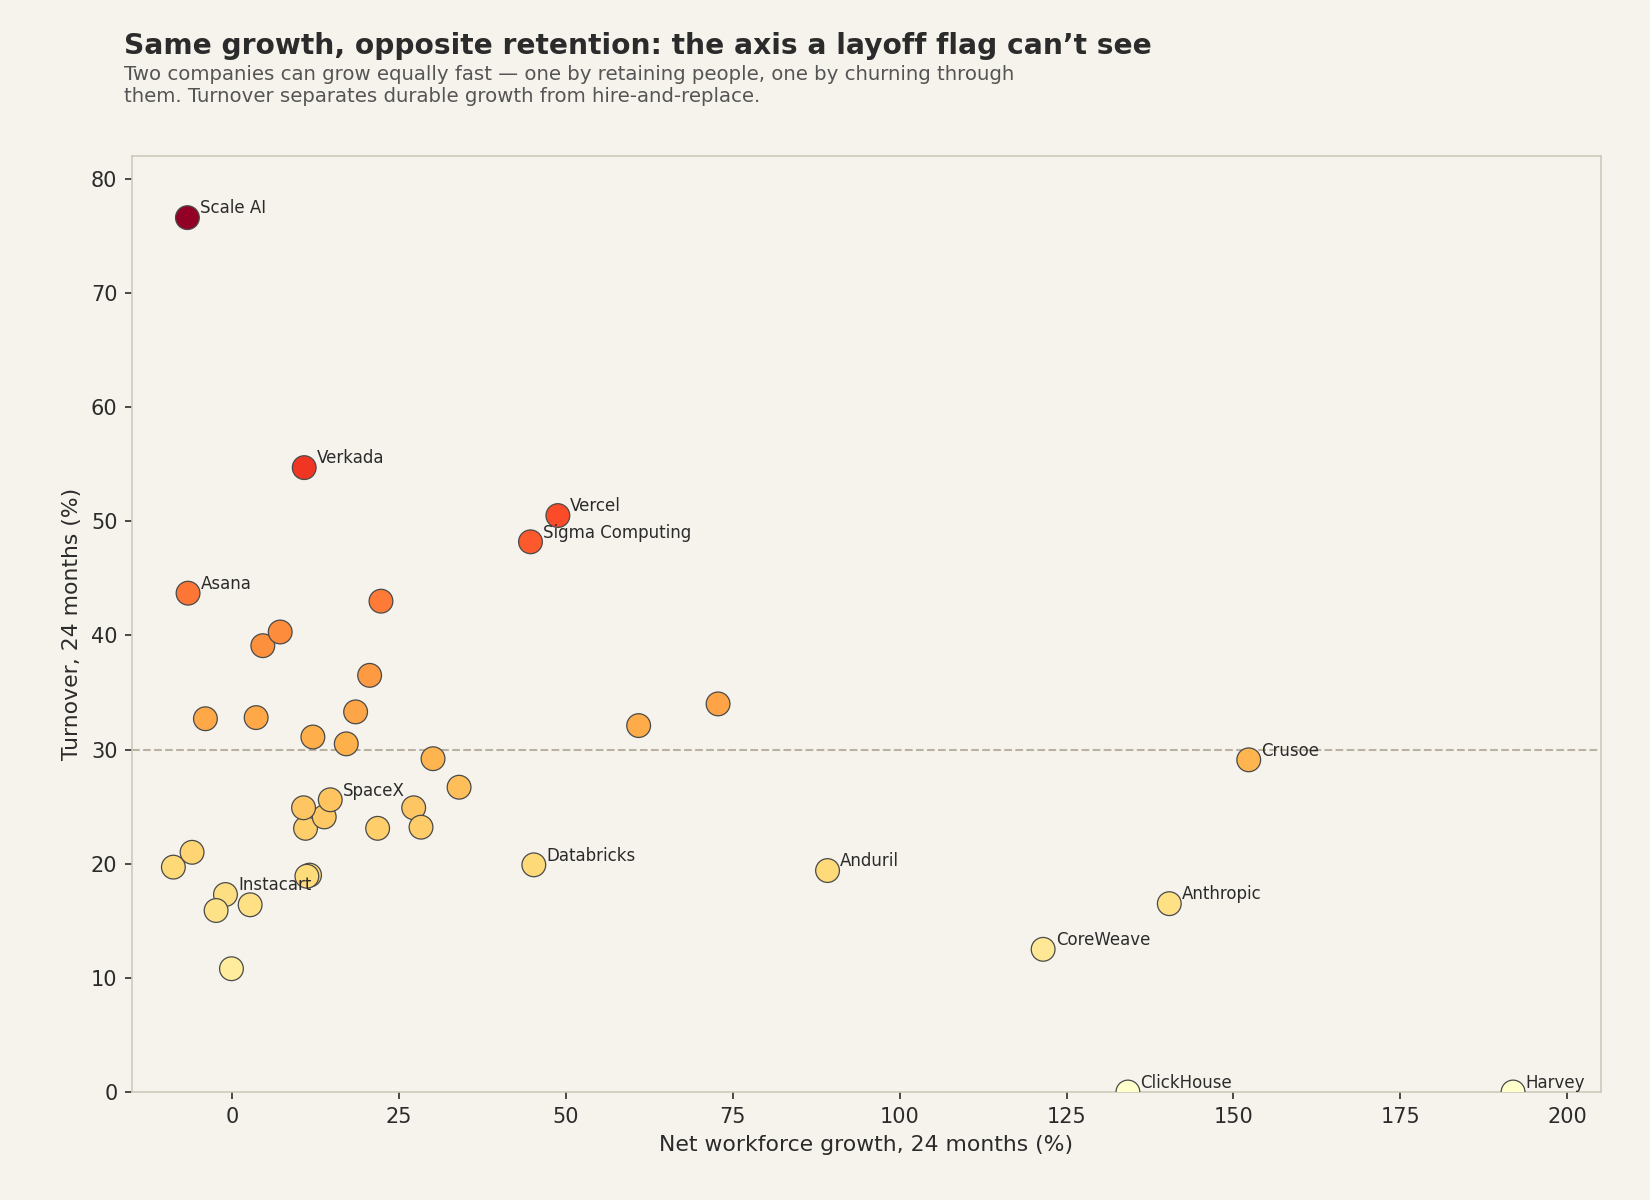
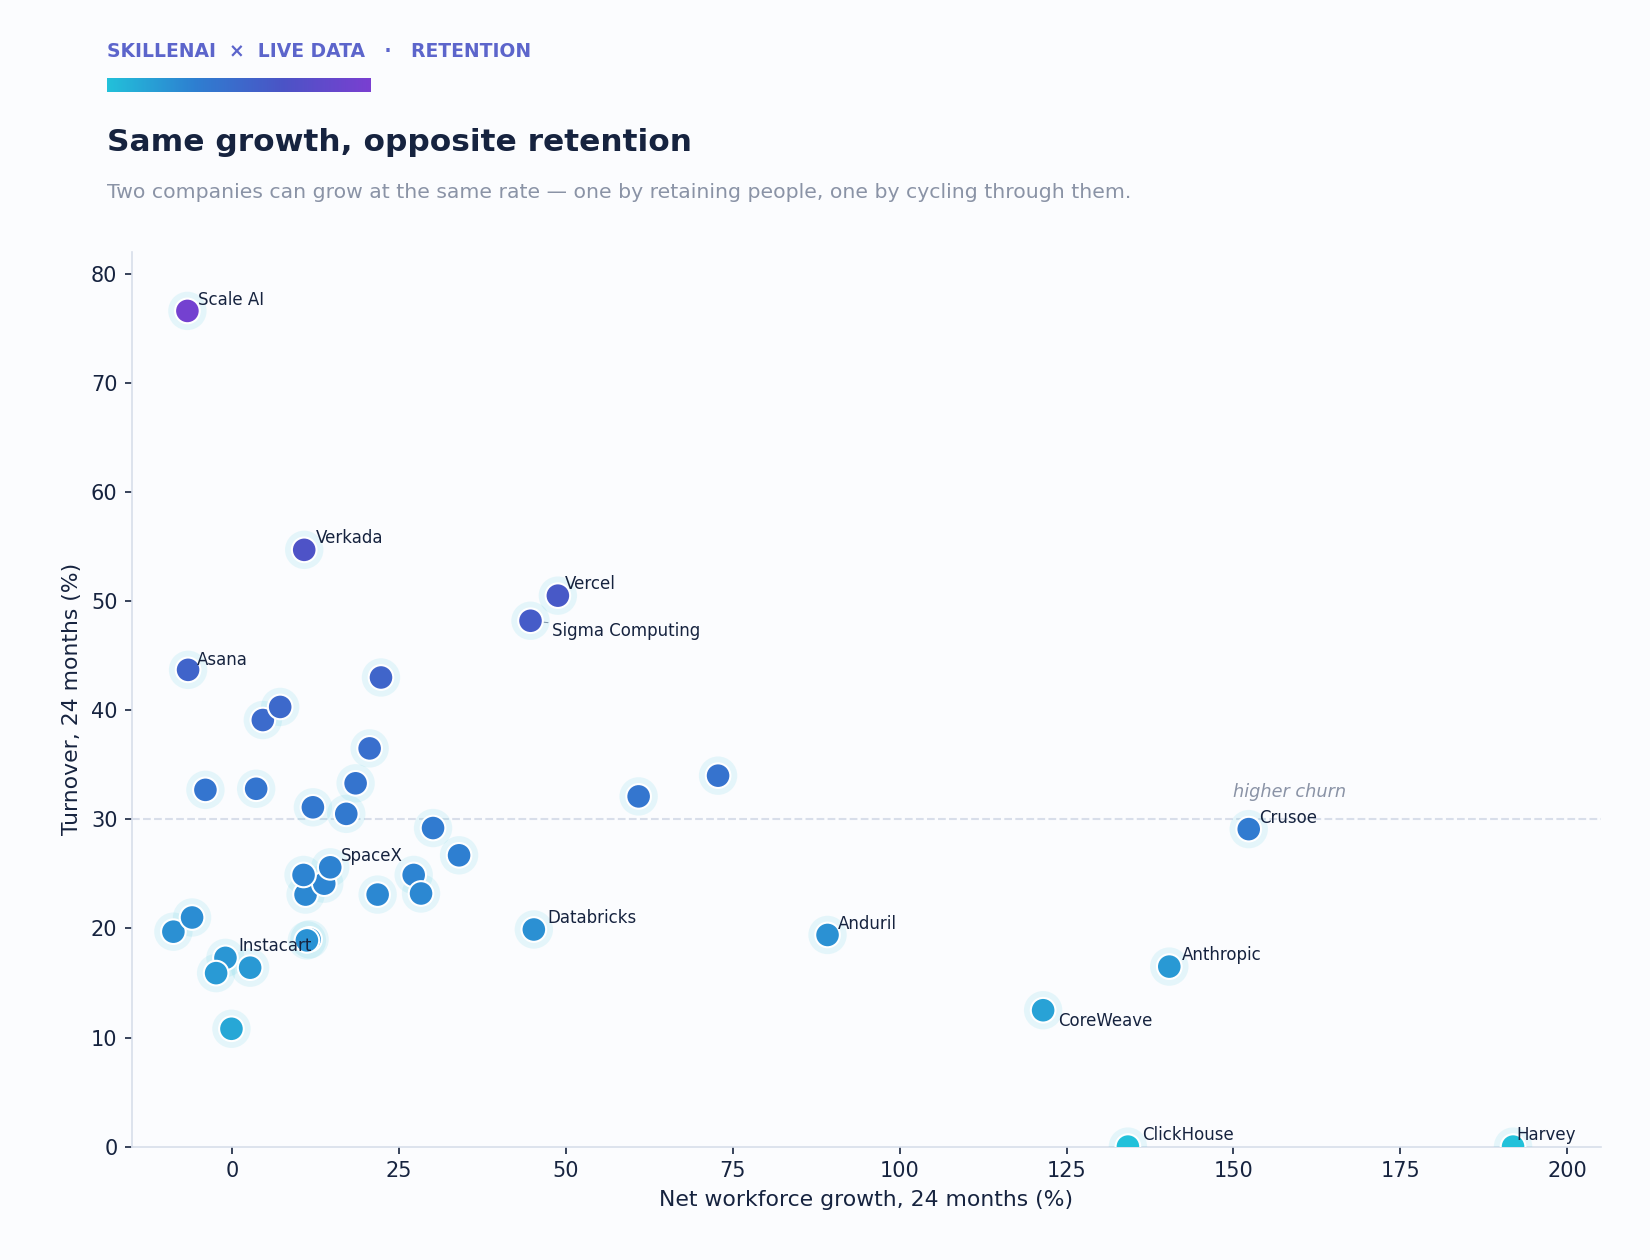
Rebrand charts (Skillenai aesthetic), drop Levels coined phrases, add Scale AI dispersal check
- Original Skillenai-branded chart aesthetic (brand gradient, own quadrant labels); no Levels styling/phrasing
- Replace coined quadrant names with plain labels (high/lower pay x hiring/cutting)
- Scale AI: verified 77% churn is real dispersal (Meta only ~9% of leavers), not a Meta-relabel artifact
- De-echo titles from the Levels chart title

diff --git a/swe-pay-vs-stability/README.md b/swe-pay-vs-stability/README.md
@@ -1,4 +1,4 @@
-# Where should a SWE work in 2026? An independent read on the Levels.fyi question
+# Software engineer pay vs. company trajectory: an independent map of 40 employers (2026)
 
 **Skillenai × Live Data · advertised software-engineer pay vs. company workforce trajectory · analysis date 2026-07-06**
 
@@ -16,7 +16,7 @@ This is **not** a reproduction of Levels' numbers, and it shouldn't be read as o
 
 - **Pay = advertised, not total comp.** Our x-axis is the **median midpoint of advertised US "Software Engineer" salary bands** from job postings (base salary bands; **excludes equity, bonus, and self-reported figures**). Levels measures self-reported *total* compensation including equity. So our Anthropic (~$402K) and Levels' Anthropic (~$800K TC) are measuring different things. What's striking is that the **rank order is preserved** — Anthropic tops both charts — which is a nice cross-validation of two very different collection methods. But do not compare the dollar *levels* between the charts; compare the *positions*.
 - **Trajectory = continuous net flow, not a layoff flag.** Our y-axis is **net workforce flow (arrivals − departures) over 24 months, as a share of average headcount**, from Live Data's supply-side panel of professional profiles — measured on a **corporate-family basis** (e.g. Cruise counts within GM, Meraki within Cisco). Levels used a binary "did they run a layoff at all" rule.
-- **Different company set.** Big Tech — Google, Meta, Amazon, Microsoft, Nvidia, Netflix, Intel, Oracle, IBM — is **absent from our pay axis** because those firms hire through proprietary applicant systems we don't index (fewer than 15 salaried US SWE postings each). So we cannot reproduce Levels' newsworthy Intel/Oracle/IBM "Under Pressure" corner. Our set skews toward **scale-ups and defense-tech** — the companies whose postings we see cleanly.
+- **Different company set.** Big Tech — Google, Meta, Amazon, Microsoft, Nvidia, Netflix, Intel, Oracle, IBM — is **absent from our pay axis** because those firms hire through proprietary applicant systems we don't index (fewer than 15 salaried US SWE postings each). So we cannot reproduce the newsworthy Intel/Oracle/IBM bottom-left corner (established names taking deep cuts). Our set skews toward **scale-ups and defense-tech** — the companies whose postings we see cleanly.
 
 Everything below should be read as *directional positioning*, not precise pay estimation. Per-company posting counts range from 15 to ~500.
 
@@ -26,7 +26,7 @@ Everything below should be read as *directional positioning*, not precise pay es
 
 ![Advertised SWE pay vs. 24-month workforce trajectory, 40 companies, coloured by turnover](01_comp_vs_flow_hero.png)
 
-We keep Levels' four-quadrant framing as an homage (their names, our data): **Money & Momentum** (pays well, growing), **Steady / Momentum** (pays nearer the median, growing), **Big Checks, Big Cuts** (pays well, shrinking), **Under Pressure** (pays nearer the median, shrinking). The vertical line is the median advertised SWE pay across the set (~$205K); the horizontal line is zero net change.
+We split the map into four quadrants with plain labels: **high pay · hiring** (top-right), **lower pay · hiring** (top-left), **high pay · cutting** (bottom-right), **lower pay · cutting** (bottom-left). The vertical line is the median advertised SWE pay across the set (~$205K); the horizontal line is zero net change.
 
 ### Finding 1 — Pay barely predicts trajectory
 
@@ -36,9 +36,11 @@ Across 40 companies, the correlation between advertised SWE pay and 24-month wor
 
 **Anthropic sits alone in the top-right corner:** the highest advertised SWE pay in the set (~$402K midpoint, versus ~$301K for the next company) *and* +140% headcount growth over 24 months, at a low 16% turnover. The richest offer in our data is also attached to the fastest-growing, best-retaining company. Whatever the pay-vs-stability tension is, it does not bind at the very top right now — the AI leaders are paying the most and hiring the hardest at the same time.
 
-### Finding 3 — "Big Checks, Big Cuts" is real, and Scale AI is the clearest case
+### Finding 3 — High pay, shrinking headcount: the Scale AI case
 
-The quadrant Levels flagged — high pay, negative trajectory — is where a job-seeker most needs the second number. In our data the standout is **Scale AI**: top-three advertised pay (~$243K) but **net −7% headcount** and the **highest turnover in the entire set (77%)**, consistent with the well-reported talent movement following its 2025 partnership with Meta. On pay alone Scale AI looks like a top destination; on trajectory-and-churn it looks like the opposite. This single company is the strongest illustration of Levels' thesis in our data.
+The high-pay / shrinking corner is where a job-seeker most needs the second number. In our data the standout is **Scale AI**: top-three advertised pay (~$243K) but **net −7% headcount** and the **highest turnover in the entire set (77%)**.
+
+We checked whether that churn was just a labeling artifact of the mid-2025 Meta stake — i.e. staff flipping their profile from Scale AI to Meta — and it isn't. Tracing where Scale AI's leavers actually went (447 with a recorded next employer), **Meta is only the single largest destination at ~9%**; the other ~91% scattered across frontier labs that had been Scale's customers (xAI, Anthropic, OpenAI, Google, Amazon) and a swarm of rival data-labeling startups (Mercor, micro1, Snorkel AI, Turing, Appen, Welo). No single destination cracks 10%. So the turnover is a **genuine post-deal unwinding**: the Meta stake spooked Scale's customers, its business contracted, and talent dispersed to the competitors who picked up the displaced work. On pay alone Scale AI looks like a top destination; on trajectory and churn it's the clearest case in the set of an offer number and a company's direction pointing opposite ways.
 
 ### Finding 4 — The turnover axis Levels couldn't see
 
@@ -50,7 +52,7 @@ Growth and turnover are essentially uncorrelated (ρ = −0.13), which means **c
 
 ### Finding 5 — Legacy names drift down, new defense-tech climbs
 
-Our "Under Pressure" corner echoes Levels' old-guard corner with the companies we *can* see: **General Motors (−9%), Cisco (−6%), Rivian (−4%), Lyft (−2%), Lockheed Martin (~0%)** — established firms at flat-to-shrinking trajectories (though these are shallow drifts, not the deep cuts Levels showed for Intel/Oracle). Meanwhile a **new-defense / hard-tech cluster hires hard at mid-market pay**: **Anduril (+89%, $213K), Applied Intuition (+73%, $183K), Axon (+28%), Skydio (+21%), SpaceX (+15%, $150K)**. The contrast between old defense (Lockheed, flat) and new defense (Anduril, +89%) is one of the sharper stories on the map.
+Our lower-pay / shrinking corner holds the established names we *can* see: **General Motors (−9%), Cisco (−6%), Rivian (−4%), Lyft (−2%), Lockheed Martin (~0%)** — flat-to-shrinking trajectories (though these are shallow drifts, not the deep cuts the original chart showed for Intel/Oracle). Meanwhile a **new-defense / hard-tech cluster hires hard at mid-market pay**: **Anduril (+89%, $213K), Applied Intuition (+73%, $183K), Axon (+28%), Skydio (+21%), SpaceX (+15%, $150K)**. The contrast between old defense (Lockheed, flat) and new defense (Anduril, +89%) is one of the sharper stories on the map.
 
 ---
 
@@ -60,46 +62,46 @@ Our "Under Pressure" corner echoes Levels' old-guard corner with the companies w
 
 | Company | Adv. SWE pay | SWE N | Net Δ 24mo | Turnover | Quadrant |
 |---|--:|--:|--:|--:|---|
-| Anthropic | $402K | 174 | +140% | 16% | Money & Momentum |
-| Roku | $301K | 21 | +11% | 23% | Money & Momentum |
-| Pinterest | $271K | 18 | +17% | 30% | Money & Momentum |
-| Harvey | $245K | 35 | +192% | 0% | Money & Momentum |
-| Vercel | $245K | 24 | +49% | 50% | Money & Momentum |
-| Notion | $244K | 15 | +61% | 32% | Money & Momentum |
-| Scale AI | $243K | 39 | -7% | 77% | Big Checks, Big Cuts |
-| Nuro | $243K | 29 | +4% | 33% | Money & Momentum |
-| Sentry | $235K | 17 | +14% | 24% | Money & Momentum |
-| Reddit | $229K | 23 | +27% | 25% | Money & Momentum |
-| Sony Interactive | $227K | 15 | +12% | 19% | Money & Momentum |
-| Roblox | $220K | 22 | +22% | 23% | Money & Momentum |
-| Crusoe | $218K | 24 | +152% | 29% | Money & Momentum |
-| Stripe | $216K | 19 | +34% | 27% | Money & Momentum |
-| Asana | $216K | 22 | -7% | 44% | Big Checks, Big Cuts |
-| Brex | $216K | 17 | +22% | 43% | Money & Momentum |
-| Anduril | $213K | 495 | +89% | 19% | Money & Momentum |
-| Discord | $208K | 64 | +11% | 25% | Money & Momentum |
-| Sigma Computing | $205K | 88 | +45% | 48% | Money & Momentum |
-| Verkada | $205K | 37 | +11% | 55% | Money & Momentum |
-| Skydio | $205K | 15 | +21% | 36% | Money & Momentum |
-| Instacart | $204K | 24 | -1% | 17% | Under Pressure |
-| CoreWeave | $204K | 38 | +122% | 12% | Steady/Momentum |
-| Checkr | $202K | 15 | +5% | 39% | Steady/Momentum |
-| Robinhood | $201K | 22 | +18% | 33% | Steady/Momentum |
-| Gusto | $200K | 26 | +30% | 29% | Steady/Momentum |
-| Adobe | $198K | 42 | +11% | 19% | Steady/Momentum |
-| Databricks | $196K | 129 | +45% | 20% | Steady/Momentum |
-| Chime | $196K | 29 | +12% | 31% | Steady/Momentum |
-| General Motors | $190K | 33 | -9% | 20% | Under Pressure |
-| Cisco | $186K | 78 | -6% | 21% | Under Pressure |
-| Axon | $183K | 31 | +28% | 23% | Steady/Momentum |
-| Applied Intuition | $183K | 55 | +73% | 34% | Steady/Momentum |
-| Rivian | $183K | 15 | -4% | 33% | Under Pressure |
-| StubHub | $182K | 27 | +7% | 40% | Steady/Momentum |
-| ClickHouse | $169K | 15 | +134% | 0% | Steady/Momentum |
-| Lyft | $166K | 19 | -2% | 16% | Under Pressure |
-| eBay | $162K | 23 | +3% | 16% | Steady/Momentum |
-| SpaceX | $150K | 172 | +15% | 26% | Steady/Momentum |
-| Lockheed Martin | $132K | 25 | -0% | 11% | Under Pressure |
+| Anthropic | $402K | 174 | +140% | 16% | High pay · hiring |
+| Roku | $301K | 21 | +11% | 23% | High pay · hiring |
+| Pinterest | $271K | 18 | +17% | 30% | High pay · hiring |
+| Harvey | $245K | 35 | +192% | 0% | High pay · hiring |
+| Vercel | $245K | 24 | +49% | 50% | High pay · hiring |
+| Notion | $244K | 15 | +61% | 32% | High pay · hiring |
+| Scale AI | $243K | 39 | -7% | 77% | High pay · cutting |
+| Nuro | $243K | 29 | +4% | 33% | High pay · hiring |
+| Sentry | $235K | 17 | +14% | 24% | High pay · hiring |
+| Reddit | $229K | 23 | +27% | 25% | High pay · hiring |
+| Sony Interactive | $227K | 15 | +12% | 19% | High pay · hiring |
+| Roblox | $220K | 22 | +22% | 23% | High pay · hiring |
+| Crusoe | $218K | 24 | +152% | 29% | High pay · hiring |
+| Stripe | $216K | 19 | +34% | 27% | High pay · hiring |
+| Asana | $216K | 22 | -7% | 44% | High pay · cutting |
+| Brex | $216K | 17 | +22% | 43% | High pay · hiring |
+| Anduril | $213K | 495 | +89% | 19% | High pay · hiring |
+| Discord | $208K | 64 | +11% | 25% | High pay · hiring |
+| Sigma Computing | $205K | 88 | +45% | 48% | High pay · hiring |
+| Verkada | $205K | 37 | +11% | 55% | High pay · hiring |
+| Skydio | $205K | 15 | +21% | 36% | High pay · hiring |
+| Instacart | $204K | 24 | -1% | 17% | Lower pay · cutting |
+| CoreWeave | $204K | 38 | +122% | 12% | Lower pay · hiring |
+| Checkr | $202K | 15 | +5% | 39% | Lower pay · hiring |
+| Robinhood | $201K | 22 | +18% | 33% | Lower pay · hiring |
+| Gusto | $200K | 26 | +30% | 29% | Lower pay · hiring |
+| Adobe | $198K | 42 | +11% | 19% | Lower pay · hiring |
+| Databricks | $196K | 129 | +45% | 20% | Lower pay · hiring |
+| Chime | $196K | 29 | +12% | 31% | Lower pay · hiring |
+| General Motors | $190K | 33 | -9% | 20% | Lower pay · cutting |
+| Cisco | $186K | 78 | -6% | 21% | Lower pay · cutting |
+| Axon | $183K | 31 | +28% | 23% | Lower pay · hiring |
+| Applied Intuition | $183K | 55 | +73% | 34% | Lower pay · hiring |
+| Rivian | $183K | 15 | -4% | 33% | Lower pay · cutting |
+| StubHub | $182K | 27 | +7% | 40% | Lower pay · hiring |
+| ClickHouse | $169K | 15 | +134% | 0% | Lower pay · hiring |
+| Lyft | $166K | 19 | -2% | 16% | Lower pay · cutting |
+| eBay | $162K | 23 | +3% | 16% | Lower pay · hiring |
+| SpaceX | $150K | 172 | +15% | 26% | Lower pay · hiring |
+| Lockheed Martin | $132K | 25 | -0% | 11% | Lower pay · cutting |
 
 *Turnover shown as 0% for Harvey and ClickHouse reflects **no departures recorded in the panel** for these very young, recently-scaled companies — read it as "too new to have measurable attrition," not literally zero.*
 